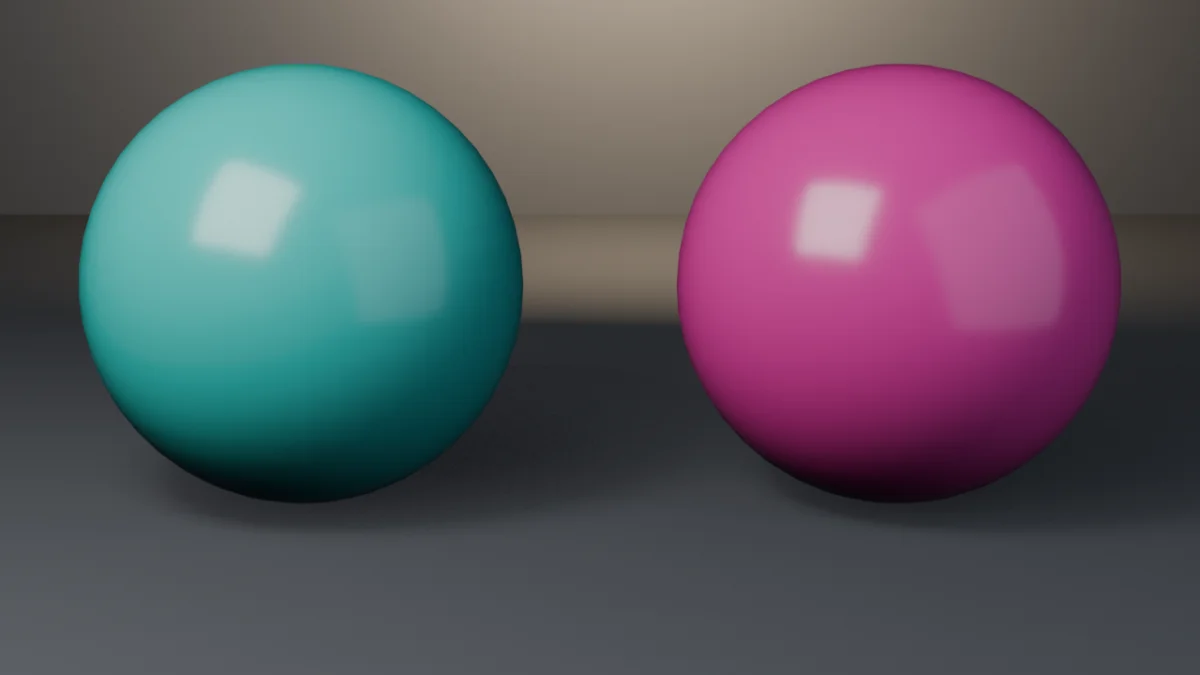
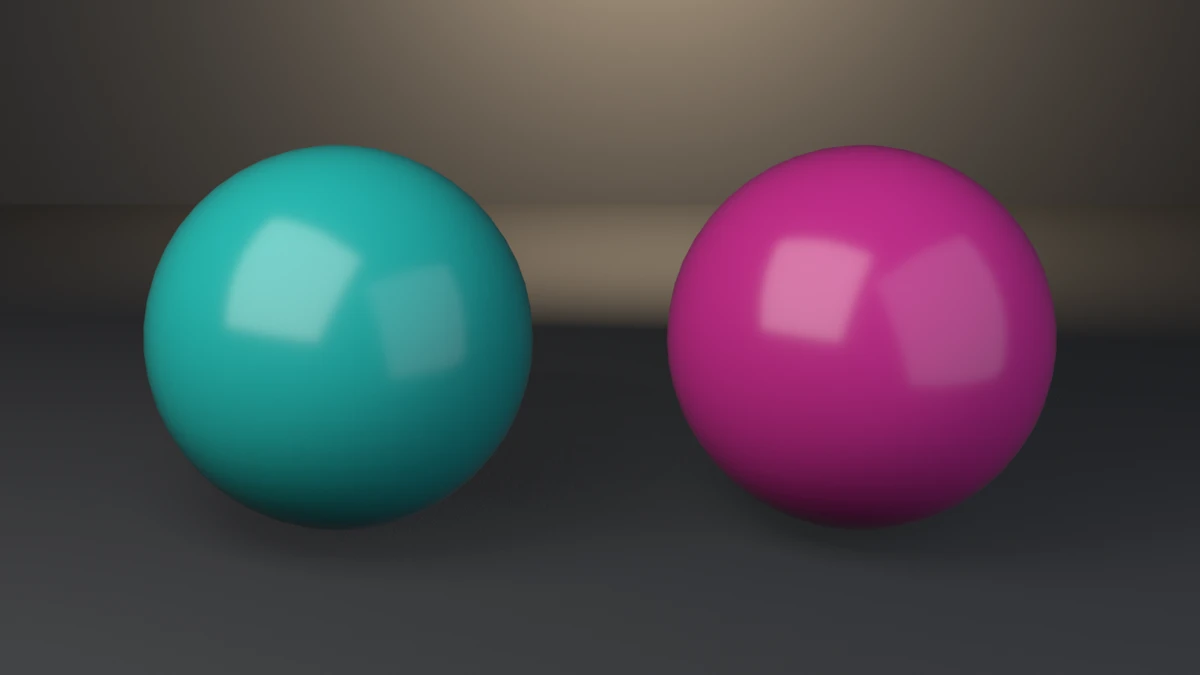
fix: shader-node-group presentation, standard view on the house stage
Render path only: Standard view transform, dark stage, softer key, camera
aimed at the spheres. Contract and exit codes unchanged on 4.5.11, 5.1.2
and 5.2.1.

diff --git a/docs/gallery/shader-node-group/index.html b/docs/gallery/shader-node-group/index.html
@@ -280,6 +280,8 @@
     <section class="detail-section md">
 <p>A runnable example that declares a reusable <code>TintedGloss</code> shader group through <code>tree.interface.new_socket</code> — the 4.x/5.x API that replaced <code>tree.inputs</code>/<code>tree.outputs</code> — and instances it in two materials with different parameters, following <a href="https://github.com/TMHSDigital/Blender-Developer-Tools/tree/main/skills/procedural-materials-and-shaders/SKILL.md"><code>procedural-materials-and-shaders</code></a> and the <a href="https://github.com/TMHSDigital/Blender-Developer-Tools/tree/main/snippets/shader-node-group.py"><code>shader-node-group</code></a> snippet.</p>
 <p><strong>What it witnesses:</strong> the grouping contract. Sockets declared on the interface appear on every group-node instance; both materials share ONE group datablock (<code>users == 2</code>); and the per-material Tint lives on the group <strong>node</strong>, not inside the group — set it inside the tree and every material changes at once. The render is the proof: two spheres, one group, two colors.</p>
+<h2>Staging</h2>
+<p>The still renders under the Standard view transform on the dark house stage; it had no view transform set, so AgX washed both tints toward pastel over a lighter floor. The key is larger and softer (the glossy spheres had mirrored it as a hard white square), and the camera aims at the sphere centres. Render path only.</p>
 <h2>Run</h2>
 <pre><code># Cheap correctness check (no render) — the CI check:
 blender --background --python shader_node_group.py --
@@ -438,8 +440,8 @@ TINTS = {
     fmat = bpy.data.materials.new(<span class="s">&quot;Studio&quot;</span>)
     fmat.use_nodes = <span class="k">True</span>
     fb = fmat.node_tree.nodes[<span class="s">&quot;Principled BSDF&quot;</span>]
-    fb.inputs[<span class="s">&quot;Base Color&quot;</span>].default_value = (<span class="n">0.055</span>, <span class="n">0.06</span>, <span class="n">0.07</span>, <span class="n">1.0</span>)
-    fb.inputs[<span class="s">&quot;Roughness&quot;</span>].default_value = <span class="n">0.5</span>
+    fb.inputs[<span class="s">&quot;Base Color&quot;</span>].default_value = (<span class="n">0.03</span>, <span class="n">0.032</span>, <span class="n">0.037</span>, <span class="n">1.0</span>)
+    fb.inputs[<span class="s">&quot;Roughness&quot;</span>].default_value = <span class="n">0.7</span>
     floor_me.materials.append(fmat)
     floor = bpy.data.objects.new(<span class="s">&quot;Floor&quot;</span>, floor_me)
     scene.collection.objects.link(floor)
@@ -450,7 +452,7 @@ TINTS = {
 
     world = bpy.data.worlds.new(<span class="s">&quot;World&quot;</span>)
     world.use_nodes = <span class="k">True</span>
-    world.node_tree.nodes[<span class="s">&quot;Background&quot;</span>].inputs[<span class="s">&quot;Color&quot;</span>].default_value = (<span class="n">0.008</span>, <span class="n">0.009</span>, <span class="n">0.012</span>, <span class="n">1.0</span>)
+    world.node_tree.nodes[<span class="s">&quot;Background&quot;</span>].inputs[<span class="s">&quot;Color&quot;</span>].default_value = (<span class="n">0.02</span>, <span class="n">0.021</span>, <span class="n">0.025</span>, <span class="n">1.0</span>)
     scene.world = world
 
     <span class="k">def</span> light(name, loc, energy, size, col, rot):
@@ -461,16 +463,26 @@ TINTS = {
         ob.rotation_euler = tuple(math.radians(a) <span class="k">for</span> a <span class="k">in</span> rot)
         scene.collection.objects.link(ob)
 
-    light(<span class="s">&quot;Key&quot;</span>, (-<span class="n">4.0</span>, -<span class="n">5.0</span>, <span class="n">6.5</span>), <span class="n">1400.0</span>, <span class="n">5.5</span>, (<span class="n">1.0</span>, <span class="n">0.98</span>, <span class="n">0.94</span>), (<span class="n">46</span>, <span class="n">0</span>, -<span class="n">35</span>))
+    <span class="c"># a large soft key: at 5.5 m the glossy spheres mirrored it as a hard</span>
+    <span class="c"># white square</span>
+    light(<span class="s">&quot;Key&quot;</span>, (-<span class="n">4.0</span>, -<span class="n">5.0</span>, <span class="n">6.5</span>), <span class="n">1100.0</span>, <span class="n">9.0</span>, (<span class="n">1.0</span>, <span class="n">0.98</span>, <span class="n">0.94</span>), (<span class="n">46</span>, <span class="n">0</span>, -<span class="n">35</span>))
     light(<span class="s">&quot;Fill&quot;</span>, (<span class="n">5.5</span>, -<span class="n">4.0</span>, <span class="n">3.0</span>), <span class="n">280.0</span>, <span class="n">8.0</span>, (<span class="n">0.82</span>, <span class="n">0.88</span>, <span class="n">1.0</span>), (<span class="n">63</span>, <span class="n">0</span>, <span class="n">48</span>))
     light(<span class="s">&quot;Rim&quot;</span>, (<span class="n">0.5</span>, <span class="n">6.0</span>, <span class="n">4.0</span>), <span class="n">900.0</span>, <span class="n">3.5</span>, (<span class="n">1.0</span>, <span class="n">0.74</span>, <span class="n">0.46</span>), (-<span class="n">62</span>, <span class="n">0</span>, <span class="n">175</span>))
 
     cam_data = bpy.data.cameras.new(<span class="s">&quot;Cam&quot;</span>)
-    cam_data.lens = <span class="n">58.0</span>
+    cam_data.lens = <span class="n">50.0</span>
     cam = bpy.data.objects.new(<span class="s">&quot;Cam&quot;</span>, cam_data)
-    cam.location = (<span class="n">0.0</span>, -<span class="n">8.7</span>, <span class="n">2.6</span>)
-    cam.rotation_euler = (math.radians(<span class="n">78</span>), <span class="n">0.0</span>, <span class="n">0.0</span>)
+    cam.location = (<span class="n">0.0</span>, -<span class="n">8.4</span>, <span class="n">3.3</span>)
     scene.collection.objects.link(cam)
+    <span class="c"># aim at the spheres&#x27; centres so they sit mid-frame, not above a band of</span>
+    <span class="c"># empty floor</span>
+    aim = bpy.data.objects.new(<span class="s">&quot;Aim&quot;</span>, <span class="k">None</span>)
+    aim.location = (<span class="n">0.0</span>, <span class="n">0.0</span>, <span class="n">1.0</span>)
+    scene.collection.objects.link(aim)
+    track = cam.constraints.new(<span class="s">&#x27;TRACK_TO&#x27;</span>)
+    track.target = aim
+    track.track_axis = <span class="s">&#x27;TRACK_NEGATIVE_Z&#x27;</span>
+    track.up_axis = <span class="s">&#x27;UP_Y&#x27;</span>
     scene.camera = cam
 
     scene.render.engine = <span class="s">&#x27;CYCLES&#x27;</span> <span class="k">if</span> engine == <span class="s">&#x27;cycles&#x27;</span> <span class="k">else</span> eevee_engine_id()
@@ -485,6 +497,8 @@ TINTS = {
     scene.render.resolution_y = <span class="n">720</span>
     scene.render.image_settings.file_format = <span class="s">&#x27;PNG&#x27;</span>
     scene.render.filepath = path
+    <span class="c"># AgX would wash both tints toward pastel (docs/VISUAL-STYLE.md)</span>
+    scene.view_settings.view_transform = <span class="s">&#x27;Standard&#x27;</span>
     <span class="c"># Layer 1 framing gate (silhouette matte) — exit 10 on violation, before</span>
     <span class="c"># the beauty render so a defective composition ships no artifact.</span>
     fcode = gallery_framing.check_framing(

diff --git a/examples/shader-node-group/shader_node_group.py b/examples/shader-node-group/shader_node_group.py
@@ -135,8 +135,8 @@ def render_still(objs, path, engine):
     fmat = bpy.data.materials.new("Studio")
     fmat.use_nodes = True
     fb = fmat.node_tree.nodes["Principled BSDF"]
-    fb.inputs["Base Color"].default_value = (0.055, 0.06, 0.07, 1.0)
-    fb.inputs["Roughness"].default_value = 0.5
+    fb.inputs["Base Color"].default_value = (0.03, 0.032, 0.037, 1.0)
+    fb.inputs["Roughness"].default_value = 0.7
     floor_me.materials.append(fmat)
     floor = bpy.data.objects.new("Floor", floor_me)
     scene.collection.objects.link(floor)
@@ -147,7 +147,7 @@ def render_still(objs, path, engine):
 
     world = bpy.data.worlds.new("World")
     world.use_nodes = True
-    world.node_tree.nodes["Background"].inputs["Color"].default_value = (0.008, 0.009, 0.012, 1.0)
+    world.node_tree.nodes["Background"].inputs["Color"].default_value = (0.02, 0.021, 0.025, 1.0)
     scene.world = world
 
     def light(name, loc, energy, size, col, rot):
@@ -158,16 +158,26 @@ def render_still(objs, path, engine):
         ob.rotation_euler = tuple(math.radians(a) for a in rot)
         scene.collection.objects.link(ob)
 
-    light("Key", (-4.0, -5.0, 6.5), 1400.0, 5.5, (1.0, 0.98, 0.94), (46, 0, -35))
+    # a large soft key: at 5.5 m the glossy spheres mirrored it as a hard
+    # white square
+    light("Key", (-4.0, -5.0, 6.5), 1100.0, 9.0, (1.0, 0.98, 0.94), (46, 0, -35))
     light("Fill", (5.5, -4.0, 3.0), 280.0, 8.0, (0.82, 0.88, 1.0), (63, 0, 48))
     light("Rim", (0.5, 6.0, 4.0), 900.0, 3.5, (1.0, 0.74, 0.46), (-62, 0, 175))
 
     cam_data = bpy.data.cameras.new("Cam")
-    cam_data.lens = 58.0
+    cam_data.lens = 50.0
     cam = bpy.data.objects.new("Cam", cam_data)
-    cam.location = (0.0, -8.7, 2.6)
-    cam.rotation_euler = (math.radians(78), 0.0, 0.0)
+    cam.location = (0.0, -8.4, 3.3)
     scene.collection.objects.link(cam)
+    # aim at the spheres' centres so they sit mid-frame, not above a band of
+    # empty floor
+    aim = bpy.data.objects.new("Aim", None)
+    aim.location = (0.0, 0.0, 1.0)
+    scene.collection.objects.link(aim)
+    track = cam.constraints.new('TRACK_TO')
+    track.target = aim
+    track.track_axis = 'TRACK_NEGATIVE_Z'
+    track.up_axis = 'UP_Y'
     scene.camera = cam
 
     scene.render.engine = 'CYCLES' if engine == 'cycles' else eevee_engine_id()
@@ -182,6 +192,8 @@ def render_still(objs, path, engine):
     scene.render.resolution_y = 720
     scene.render.image_settings.file_format = 'PNG'
     scene.render.filepath = path
+    # AgX would wash both tints toward pastel (docs/VISUAL-STYLE.md)
+    scene.view_settings.view_transform = 'Standard'
     # Layer 1 framing gate (silhouette matte) — exit 10 on violation, before
     # the beauty render so a defective composition ships no artifact.
     fcode = gallery_framing.check_framing(

diff --git a/examples/shader-node-group/README.md b/examples/shader-node-group/README.md
@@ -12,6 +12,14 @@ per-material Tint lives on the group **node**, not inside the group — set it i
 and every material changes at once. The render is the proof: two spheres, one group, two
 colors.
 
+## Staging
+
+The still renders under the Standard view transform on the dark house
+stage; it had no view transform set, so AgX washed both tints toward
+pastel over a lighter floor. The key is larger and softer (the glossy
+spheres had mirrored it as a hard white square), and the camera aims
+at the sphere centres. Render path only.
+
 ## Run
 
 ```bash
